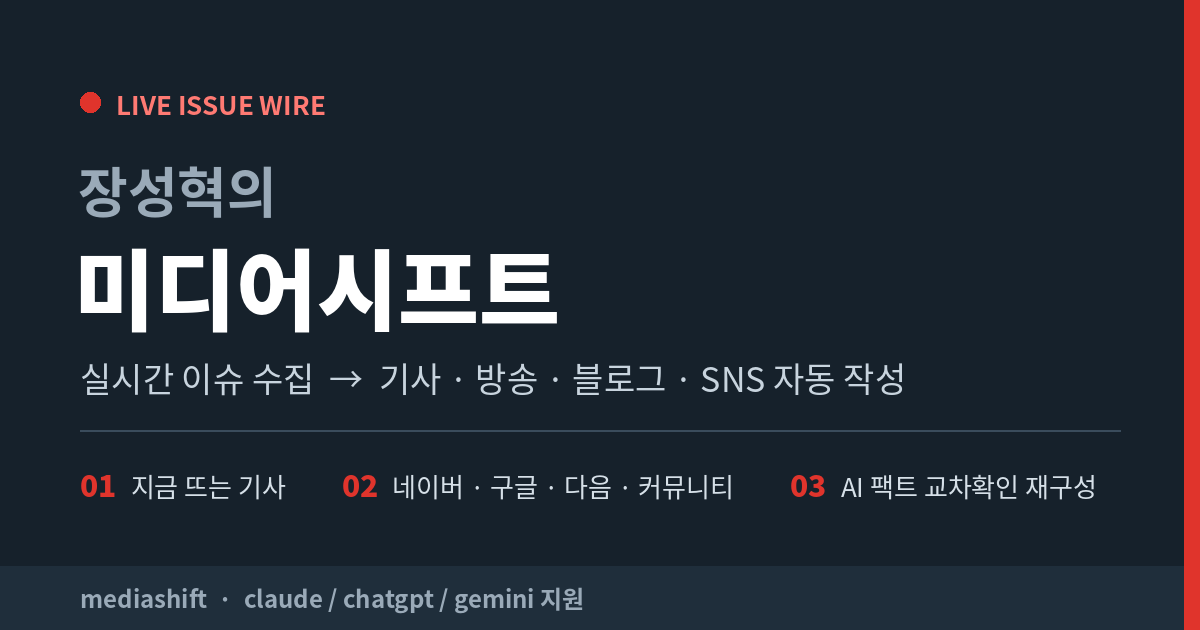
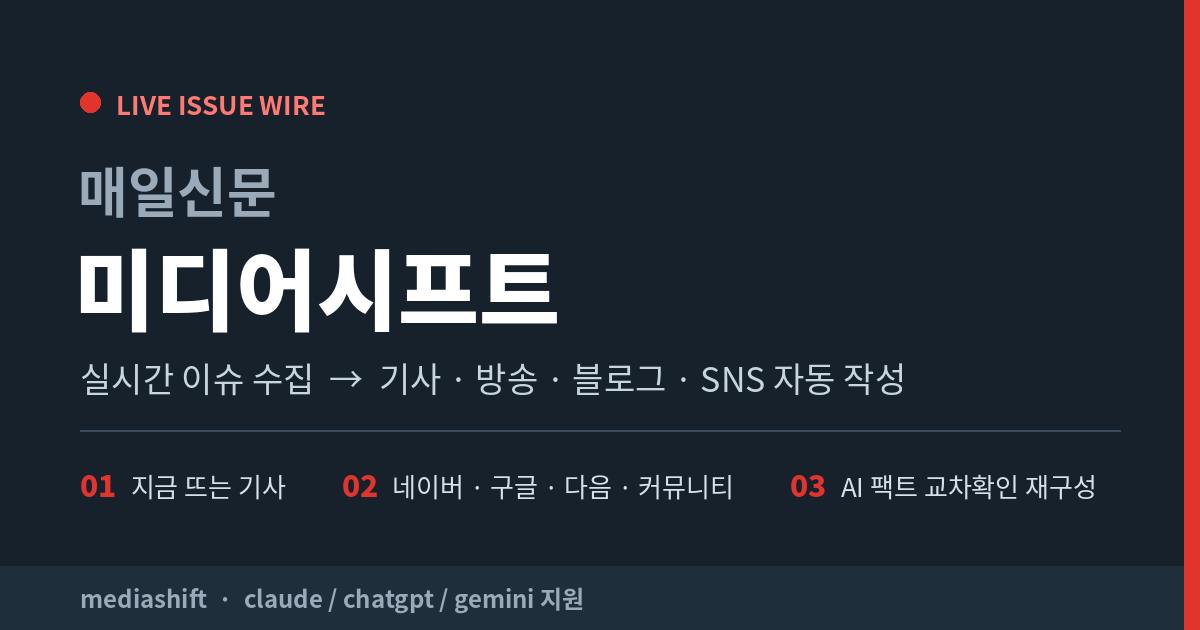
Add files via upload

Changed region(s): [[0.0617, 0.2714, 0.2467, 0.3619]]

diff --git a/index.html b/index.html
@@ -3,16 +3,16 @@
 <head>
 <meta charset="UTF-8">
 <meta name="viewport" content="width=device-width, initial-scale=1.0">
-<title>장성혁의 미디어시프트 — 실시간 이슈 리라이팅 스테이션</title>
+<title>매일신문 미디어시프트 — 실시간 이슈 리라이팅 스테이션</title>
 <meta property="og:type" content="website">
 <meta property="og:url" content="https://jsh0529-beep.github.io/gisa/">
-<meta property="og:title" content="장성혁의 미디어시프트">
+<meta property="og:title" content="매일신문 미디어시프트">
 <meta property="og:description" content="실시간 이슈 수집 → 기사·방송·블로그·SNS 자동 작성. 네이버·구글·다음·커뮤니티 인기 기사를 한눈에.">
 <meta property="og:image" content="https://jsh0529-beep.github.io/gisa/cover.png">
 <meta property="og:image:width" content="1200">
 <meta property="og:image:height" content="630">
 <meta name="twitter:card" content="summary_large_image">
-<meta name="twitter:title" content="장성혁의 미디어시프트">
+<meta name="twitter:title" content="매일신문 미디어시프트">
 <meta name="twitter:description" content="실시간 이슈 수집 → 기사·방송·블로그·SNS 자동 작성">
 <meta name="twitter:image" content="https://jsh0529-beep.github.io/gisa/cover.png">
 <link href="https://fonts.googleapis.com/css2?family=Noto+Serif+KR:wght@400;600;900&family=IBM+Plex+Mono:wght@500;600&display=swap" rel="stylesheet">
@@ -235,7 +235,7 @@
 <body>
 
 <header>
-  <h1>장성혁의 미디어시프트</h1>
+  <h1>매일신문 미디어시프트</h1>
   <span class="live">LIVE ISSUE WIRE</span>
   <span class="sub">화제 기사 수집 → 팩트 추출 → 독자 기사 재구성</span>
 </header>